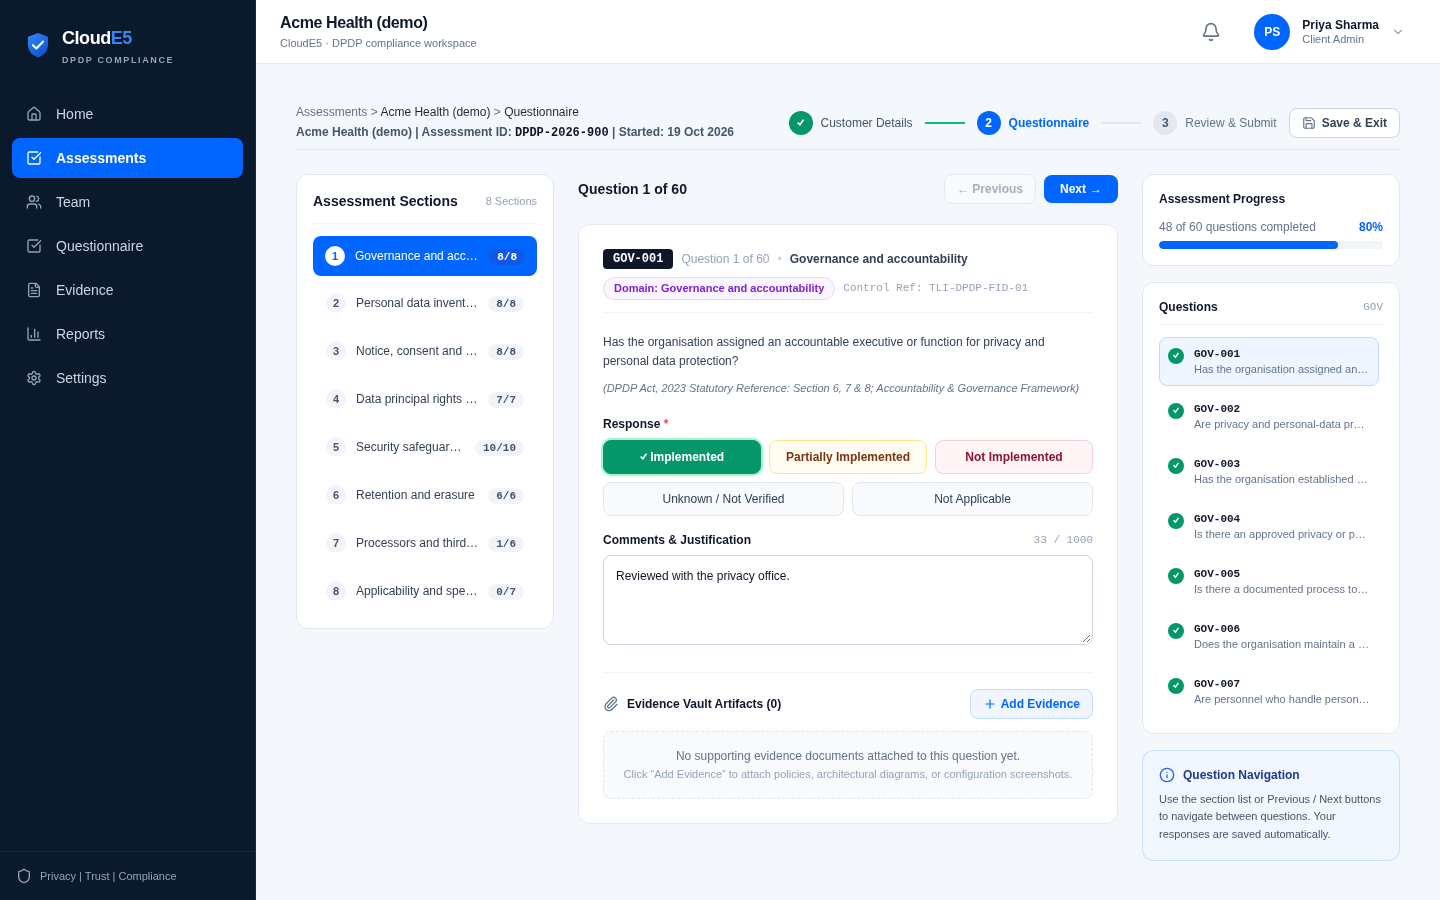
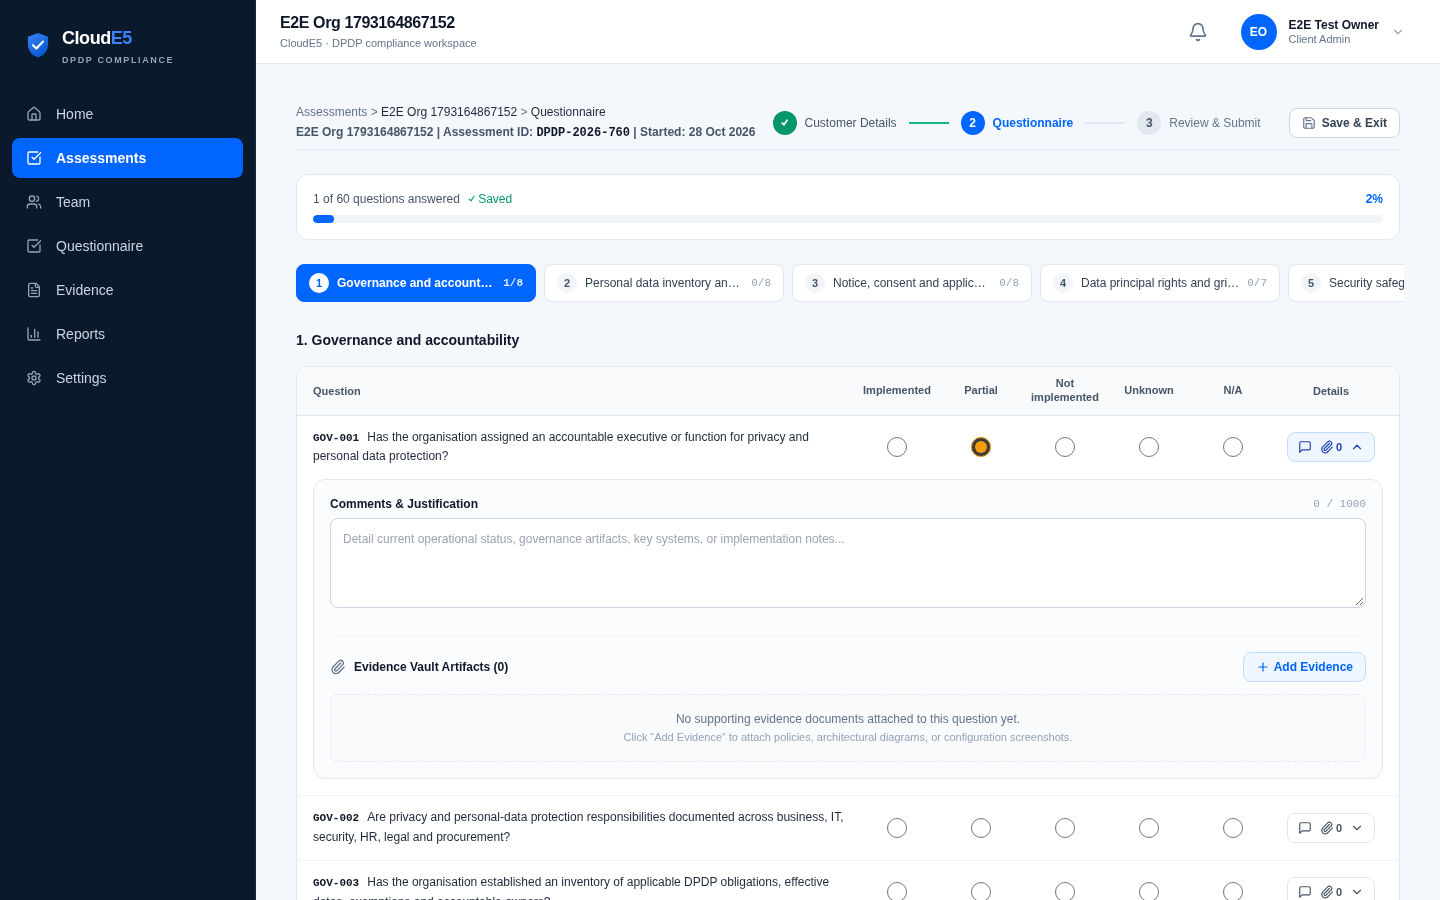
docs: README with the live deployment, update procedure, Brevo email and new features
Documents how cloude5.tech runs (VPS, Docker Compose, Caddy, ClamAV, Brevo,
DNS, nightly backups), the step-by-step update with migrations, Brevo setup
and bounce troubleshooting, the questionnaire table, customer menu, work-email
rule and onboarding profile. Refreshes the questionnaire screenshot.

diff --git a/README.md b/README.md
@@ -10,7 +10,9 @@
 [![Docker](https://img.shields.io/badge/Docker-Compose-2496ED?logo=docker&logoColor=white)](docs/SELF_HOSTING.md)
 [![Node.js](https://img.shields.io/badge/Node.js-22%2B-5FA04E?logo=nodedotjs&logoColor=white)](https://nodejs.org)
 
-[Features](#features) · [Screenshots](#screenshots) · [Quick start](#quick-start) · [Deploy](#deploy) · [Architecture](#architecture) · [Documentation](#documentation)
+**Live:** [cloude5.tech](https://cloude5.tech)
+
+[Features](#features) · [Screenshots](#screenshots) · [Quick start](#quick-start) · [Deploy](#deploy) · [Production](#production-deployment) · [Architecture](#architecture) · [Documentation](#documentation)
 
 <img src="docs/images/summary.png" alt="CloudE5 assessment summary with readiness score, section breakdown and statutory deficits" width="900">
 
@@ -30,11 +32,20 @@ external database or cloud services required.
 ## Features
 
 **Assessment**
-- Guided questionnaire: 8 areas, 60 questions, autosave, mandatory justification for "Not applicable"
+- Guided questionnaire: 8 areas, 60 questions, shown as one table per area: the question on the left and a
+  tick for each answer (Implemented, Partial, Not implemented, Unknown, N/A), the areas as tabs on top,
+  and a details panel per question for comments and evidence; autosave; "Not applicable" needs a reason
 - Deterministic scoring and gap analysis; every finding traces back to the answer and control behind it
 - Assessor review, clarification threads, approval workflow and lifecycle history
 - Report generation (.docx) and remediation (CAPA) tracking with owners and due dates
 - Works on desktop, tablet and phone: the navigation becomes a drawer and every page fits the screen
+
+**Customers and platform staff**
+- Customers see only their own work: Questionnaire, Evidence, Results, Team and Settings
+- Platform administrators see every organisation, assessment, report and the full review workflow
+- Self-service assessments open ready for answers; customers submit them for review on their own
+- Onboarding records the organisation type (list plus "Other"), team size, company phone, company email,
+  website and office address
 
 **Evidence**
 - Private, per-organisation evidence vault with type and content validation and SHA-256 integrity
@@ -42,6 +53,7 @@ external database or cloud services required.
 
 **Accounts and security**
 - Self-service organisation sign-up with email verification, password reset and single-use invitations
+- Customer accounts must use a work email address: free mailbox domains (Gmail, Yahoo, Outlook, ...) are refused
 - Two-factor sign-in (authenticator app plus recovery codes), optionally required for a whole organisation
 - Role-based access for organisation administrators, business-unit leads, contributors, viewers,
   platform administrators, lead consultants and reviewers
@@ -89,10 +101,67 @@ CLOUDE5_DOMAIN=cloude5.example.com docker compose --profile proxy --profile anti
 curl -fsS https://cloude5.example.com/api/ready
 ```
 
+See [Production deployment](#production-deployment) for how the live site runs and is updated.
+
 - **No server yet?** Try it on a laptop with a temporary public address:
   [laptop setup](docs/SELF_HOSTING.md#trying-it-on-a-laptop-no-server-no-domain).
 - **Going live?** Work through the [production checklist](docs/PRODUCTION_CHECKLIST.md).
 - **First customers?** See [onboarding customers](docs/ONBOARDING.md).
+
+## Production deployment
+
+The live site, [cloude5.tech](https://cloude5.tech), runs on a single Linux VPS (2 vCPU, 8 GB RAM, NVMe,
+India region) with Docker Compose. Nothing else is hosted elsewhere.
+
+| Part | How it runs |
+|---|---|
+| Server | Ubuntu 24.04 LTS, Docker Engine and Compose; firewall allows only SSH, HTTP and HTTPS |
+| App | `cloude5` container built on the server from this repository (`cloude5:latest`), data in the `/data` volume |
+| HTTPS | Caddy (`proxy` profile) with automatic Let's Encrypt certificates for `cloude5.tech` and `www.cloude5.tech` |
+| Virus scanning | ClamAV (`antivirus` profile); uploads are refused while it is unavailable |
+| Email | [Brevo](https://www.brevo.com) SMTP relay (`smtp-relay.brevo.com:587`, STARTTLS) sending as `no-reply@cloude5.tech` |
+| DNS | `A @` → server, `CNAME www` → `cloude5.tech`, plus Brevo's domain records (brevo-code TXT, two DKIM CNAMEs, DMARC TXT) |
+| Backups | Nightly `backup-all` at 02:15 (database snapshot plus evidence archive), 14 days kept; an automatic backup before every migration |
+
+### Updating the live site
+
+After a pull request is merged into `main`:
+
+```bash
+# on the server, in the application directory
+docker compose exec -T cloude5 cloude5-entrypoint backup-all     # 1. back up first
+git pull                                                          # 2. or copy the new code (keep .env)
+docker build -t cloude5:latest .                                  # 3. build the new image
+docker compose stop cloude5
+docker compose run --rm cloude5 migrate                           # 4. apply new migrations (backs up automatically)
+docker compose --profile proxy --profile antivirus up -d cloude5  # 5. start the new version
+curl -fsS http://127.0.0.1:3000/api/ready                         # 6. every check must be "ok"
+```
+
+Migrations do not run on container start, so step 4 is required whenever `migrations/sqlite/` changed.
+Never edit a migration that has already been applied.
+
+### Email with Brevo
+
+1. Add and authenticate the sending domain in Brevo (**Senders, domains, IPs → Domains**) and copy its DNS
+   records to the domain's DNS.
+2. Add the sender `no-reply@<domain>` and generate an **SMTP key** (not an API key).
+3. Add the server's public IP under **Security → Authorized IPs**, or Brevo refuses the connection
+   ("525 Unauthorized IP address").
+4. Set in `.env`: `SMTP_HOST=smtp-relay.brevo.com`, `SMTP_PORT=587`, `SMTP_SECURE=false` (STARTTLS is
+   still required), `SMTP_USER=<Brevo SMTP login>`, `SMTP_PASSWORD=<SMTP key>`,
+   `SMTP_FROM="CloudE5 <no-reply@<domain>>"`, then recreate the `cloude5` container.
+
+Delivery problems show in Brevo under **Transactional → Logs**. A "hard bounce" (for example
+`550 5.1.1 User does not exist`) comes from the recipient's mail server, not from CloudE5: check that the
+mailbox exists and that the recipient domain's MX records point at one mail provider, then remove the
+address from Brevo's blocked contacts and resend.
+
+### Configuration kept only on the server
+
+`.env` holds `SESSION_SECRET`, `CLOUDE5_PUBLIC_URL=https://cloude5.tech`,
+`CLOUDE5_DOMAIN="cloude5.tech, www.cloude5.tech, ..."`, `CLOUDE5_CLAMAV_HOST=clamav` and the `SMTP_*`
+values. It is never committed; a copy is made before every change.
 
 ## Architecture
 
@@ -102,7 +171,7 @@ flowchart LR
     Proxy --> App["cloude5<br/>Next.js app and API"]
     App --> Data[("Volume /data<br/>SQLite database<br/>evidence files<br/>backups")]
     App --> AV["ClamAV<br/>(optional)"]
-    App --> SMTP["SMTP provider"]
+    App --> SMTP["SMTP provider<br/>(Brevo)"]
 ```
 
 Every request passes a same-origin check and receives a per-request CSP nonce. Sessions are re-checked
@@ -119,7 +188,8 @@ npm run build               # production build
 E2E_BASE_URL=https://your-host npm run test:e2e   # Playwright browser tests against a running installation
 ```
 
-The browser tests cover registration, email verification, onboarding, answer validation, evidence
+The browser tests cover registration (including refusal of personal email addresses), email
+verification, onboarding with the organisation profile, the questionnaire table, answer validation, evidence
 upload (including virus detection when ClamAV runs), two-factor sign-in, and phone and tablet
 layouts (the `mobile` and `tablet` projects fail if any workspace page spills past the screen).
 

diff --git a/docs/ONBOARDING.md b/docs/ONBOARDING.md
@@ -9,8 +9,12 @@ profile, emails are caught by Mailpit at `http://localhost:8025` instead of bein
 
 1. Send the customer your CloudE5 address.
 2. They choose **Create account** and enter their name, work email, organisation name and password.
+   Customer accounts must use a work address: free mailbox domains such as Gmail, Yahoo or Outlook are refused
+   (also for invitations and users added by an administrator).
 3. They open the verification link from the email and sign in.
-4. A setup wizard records the organisation profile and starts the first assessment. A self-assessment opens ready
+4. A setup wizard records the organisation profile (organisation type from a list or typed in under "Other",
+   team size, company phone and email, website, office address, DPO contact, SDF status) and starts the first
+   assessment. A self-assessment opens ready
    for answers (data gathering): the customer answers the questionnaire, attaches evidence and submits it for review
    without waiting for a consultant. Assessments a consultant creates start in draft and go through scoping first.
 5. The person who registered becomes the organisation's administrator and invites colleagues from
